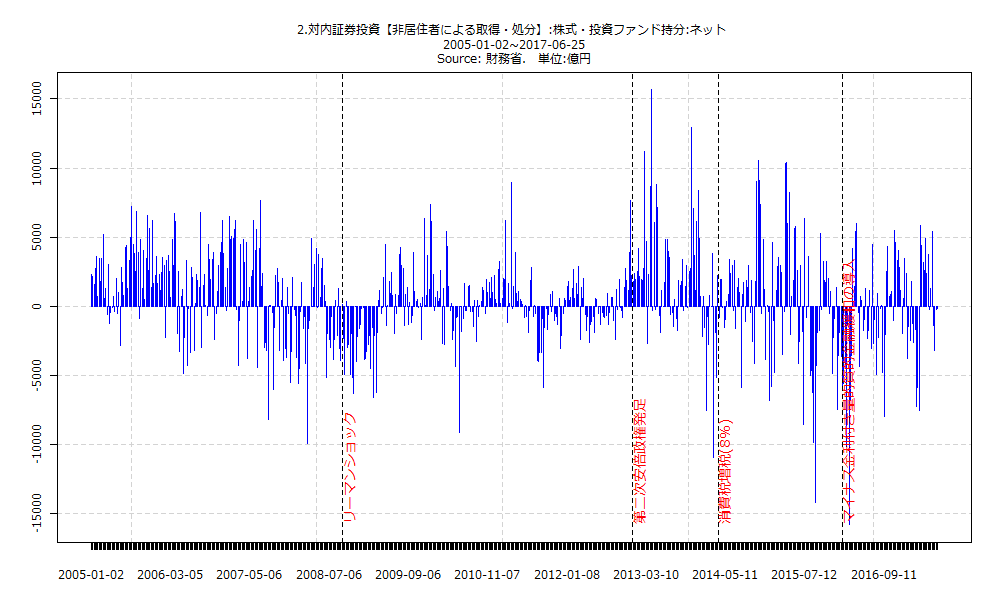
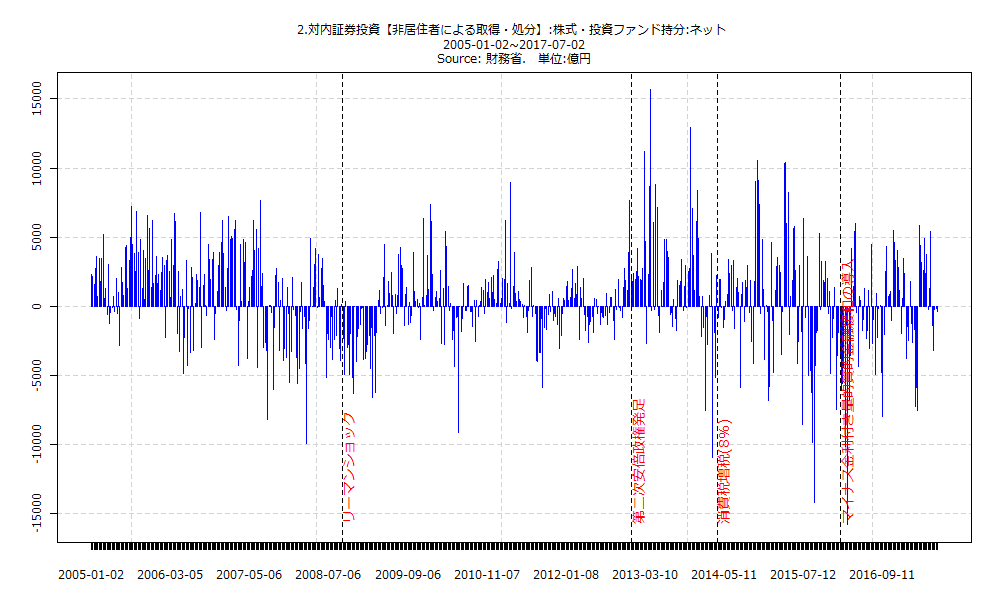
insertheader,selfcontained追記
insertheader,selfcontained追記

diff --git a/insertHeader.html b/insertHeader.html
@@ -1,3 +1,3 @@
 
 <link rel="shortcut icon" href="http://knowledgevault.saecanet.com/charts/indicator/favicon-bar-chart.ico">
-<link rel="stylesheet" href="am-consulting.co.jp-00027_files/style.css" type="text/css" />
+

diff --git a/md/20170713-olive.md b/md/20170713-olive.md
@@ -1,0 +1,78 @@
+
+---
+tags : [財務省,証券売買契約]
+title : 対外及び対内証券売買契約等の状況(週次･指定報告機関ベース):2017.7.2～7.8(億円):1.対外証券投資【居住者による取得・処分】:株式・投資ファンド持分:ネット:3249,2.対内証券投資【非居住者による取得・処分】:株式・投資ファンド持分:ネット:-350
+published : true
+---
+
+
+<a href="http://knowledgevault.saecanet.com/charts/chartImages/internationalTransactionsInSecurities1.png"><img border="0" src="http://knowledgevault.saecanet.com/charts/chartImages/internationalTransactionsInSecurities1.png" width="100%" /></a>
+
+
+***
+
+
+#### 第2次安倍内閣発足以降のネット合計(兆円)
+
+
+- 第2次安倍内閣発足以降のネット合計(兆円)
+
+
+<table id = 'amcc' width = '100%'>
+ <thead>
+  <tr>
+   <th style="text-align:left;"> Item </th>
+   <th style="text-align:right;"> 第2次安倍内閣発足以降のネット合計(兆円) </th>
+  </tr>
+ </thead>
+<tbody>
+  <tr>
+   <td style="text-align:left;"> 1.対外証券投資【居住者による取得・処分】:株式・投資ファンド持分:ネット </td>
+   <td style="text-align:right;"> 20.9873 </td>
+  </tr>
+  <tr>
+   <td style="text-align:left;"> 1.対外証券投資【居住者による取得・処分】:中長期債:ネット </td>
+   <td style="text-align:right;"> 29.3455 </td>
+  </tr>
+  <tr>
+   <td style="text-align:left;"> 1.対外証券投資【居住者による取得・処分】:小計:ネット </td>
+   <td style="text-align:right;"> 50.3322 </td>
+  </tr>
+  <tr>
+   <td style="text-align:left;"> 1.対外証券投資【居住者による取得・処分】:短期債:ネット </td>
+   <td style="text-align:right;"> 1.0523 </td>
+  </tr>
+  <tr>
+   <td style="text-align:left;"> 1.対外証券投資【居住者による取得・処分】:合計:ネット </td>
+   <td style="text-align:right;"> 51.3852 </td>
+  </tr>
+  <tr>
+   <td style="text-align:left;"> 2.対内証券投資【非居住者による取得・処分】:株式・投資ファンド持分:ネット </td>
+   <td style="text-align:right;"> 13.2725 </td>
+  </tr>
+  <tr>
+   <td style="text-align:left;"> 2.対内証券投資【非居住者による取得・処分】:中長期債:ネット </td>
+   <td style="text-align:right;"> 18.5703 </td>
+  </tr>
+  <tr>
+   <td style="text-align:left;"> 2.対内証券投資【非居住者による取得・処分】:小計:ネット </td>
+   <td style="text-align:right;"> 31.8431 </td>
+  </tr>
+  <tr>
+   <td style="text-align:left;"> 2.対内証券投資【非居住者による取得・処分】:短期債:ネット </td>
+   <td style="text-align:right;"> 13.9214 </td>
+  </tr>
+  <tr>
+   <td style="text-align:left;"> 2.対内証券投資【非居住者による取得・処分】:合計:ネット </td>
+   <td style="text-align:right;"> 45.7659 </td>
+  </tr>
+</tbody>
+</table>
+
+## データテーブル･チャート
+
+
+Link : [データテーブル･チャート](http://knowledgevault.saecanet.com/charts/am-consulting.co.jp-internationalTransactionsInSecurities.html)
+
+
+<iframe src="http://knowledgevault.saecanet.com/charts/am-consulting.co.jp-internationalTransactionsInSecurities.html" width="100%" height="800px"></iframe>
